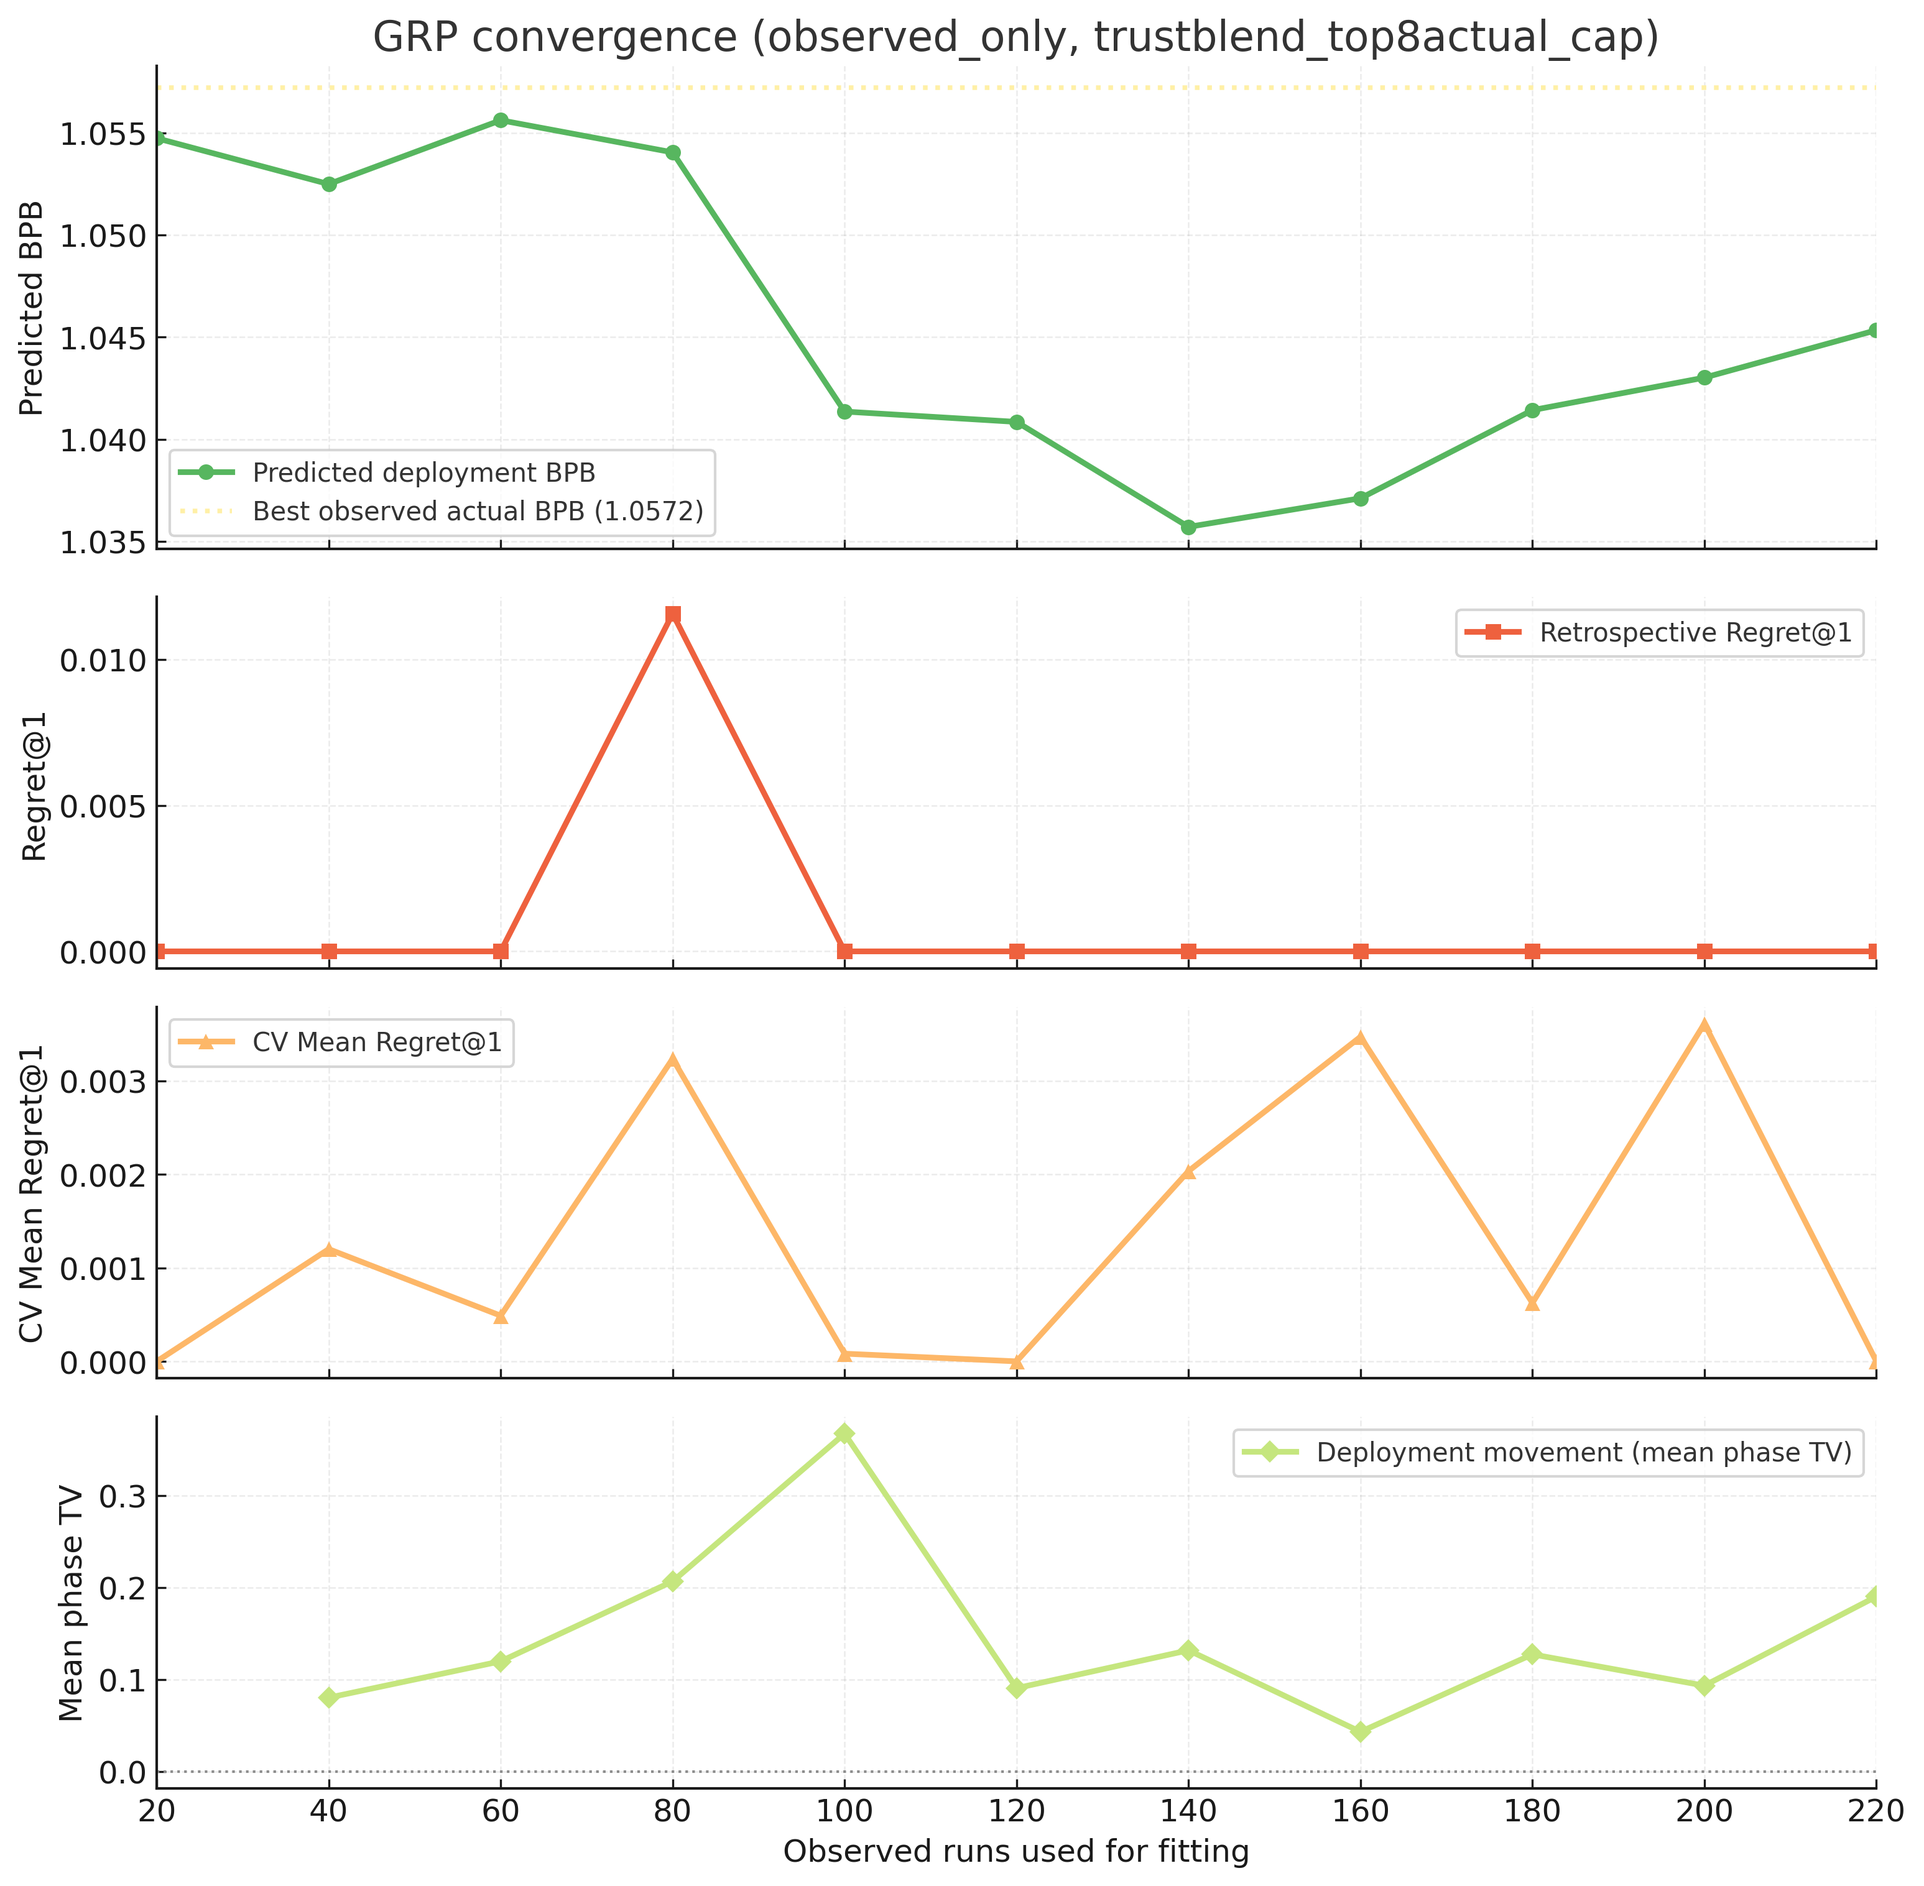
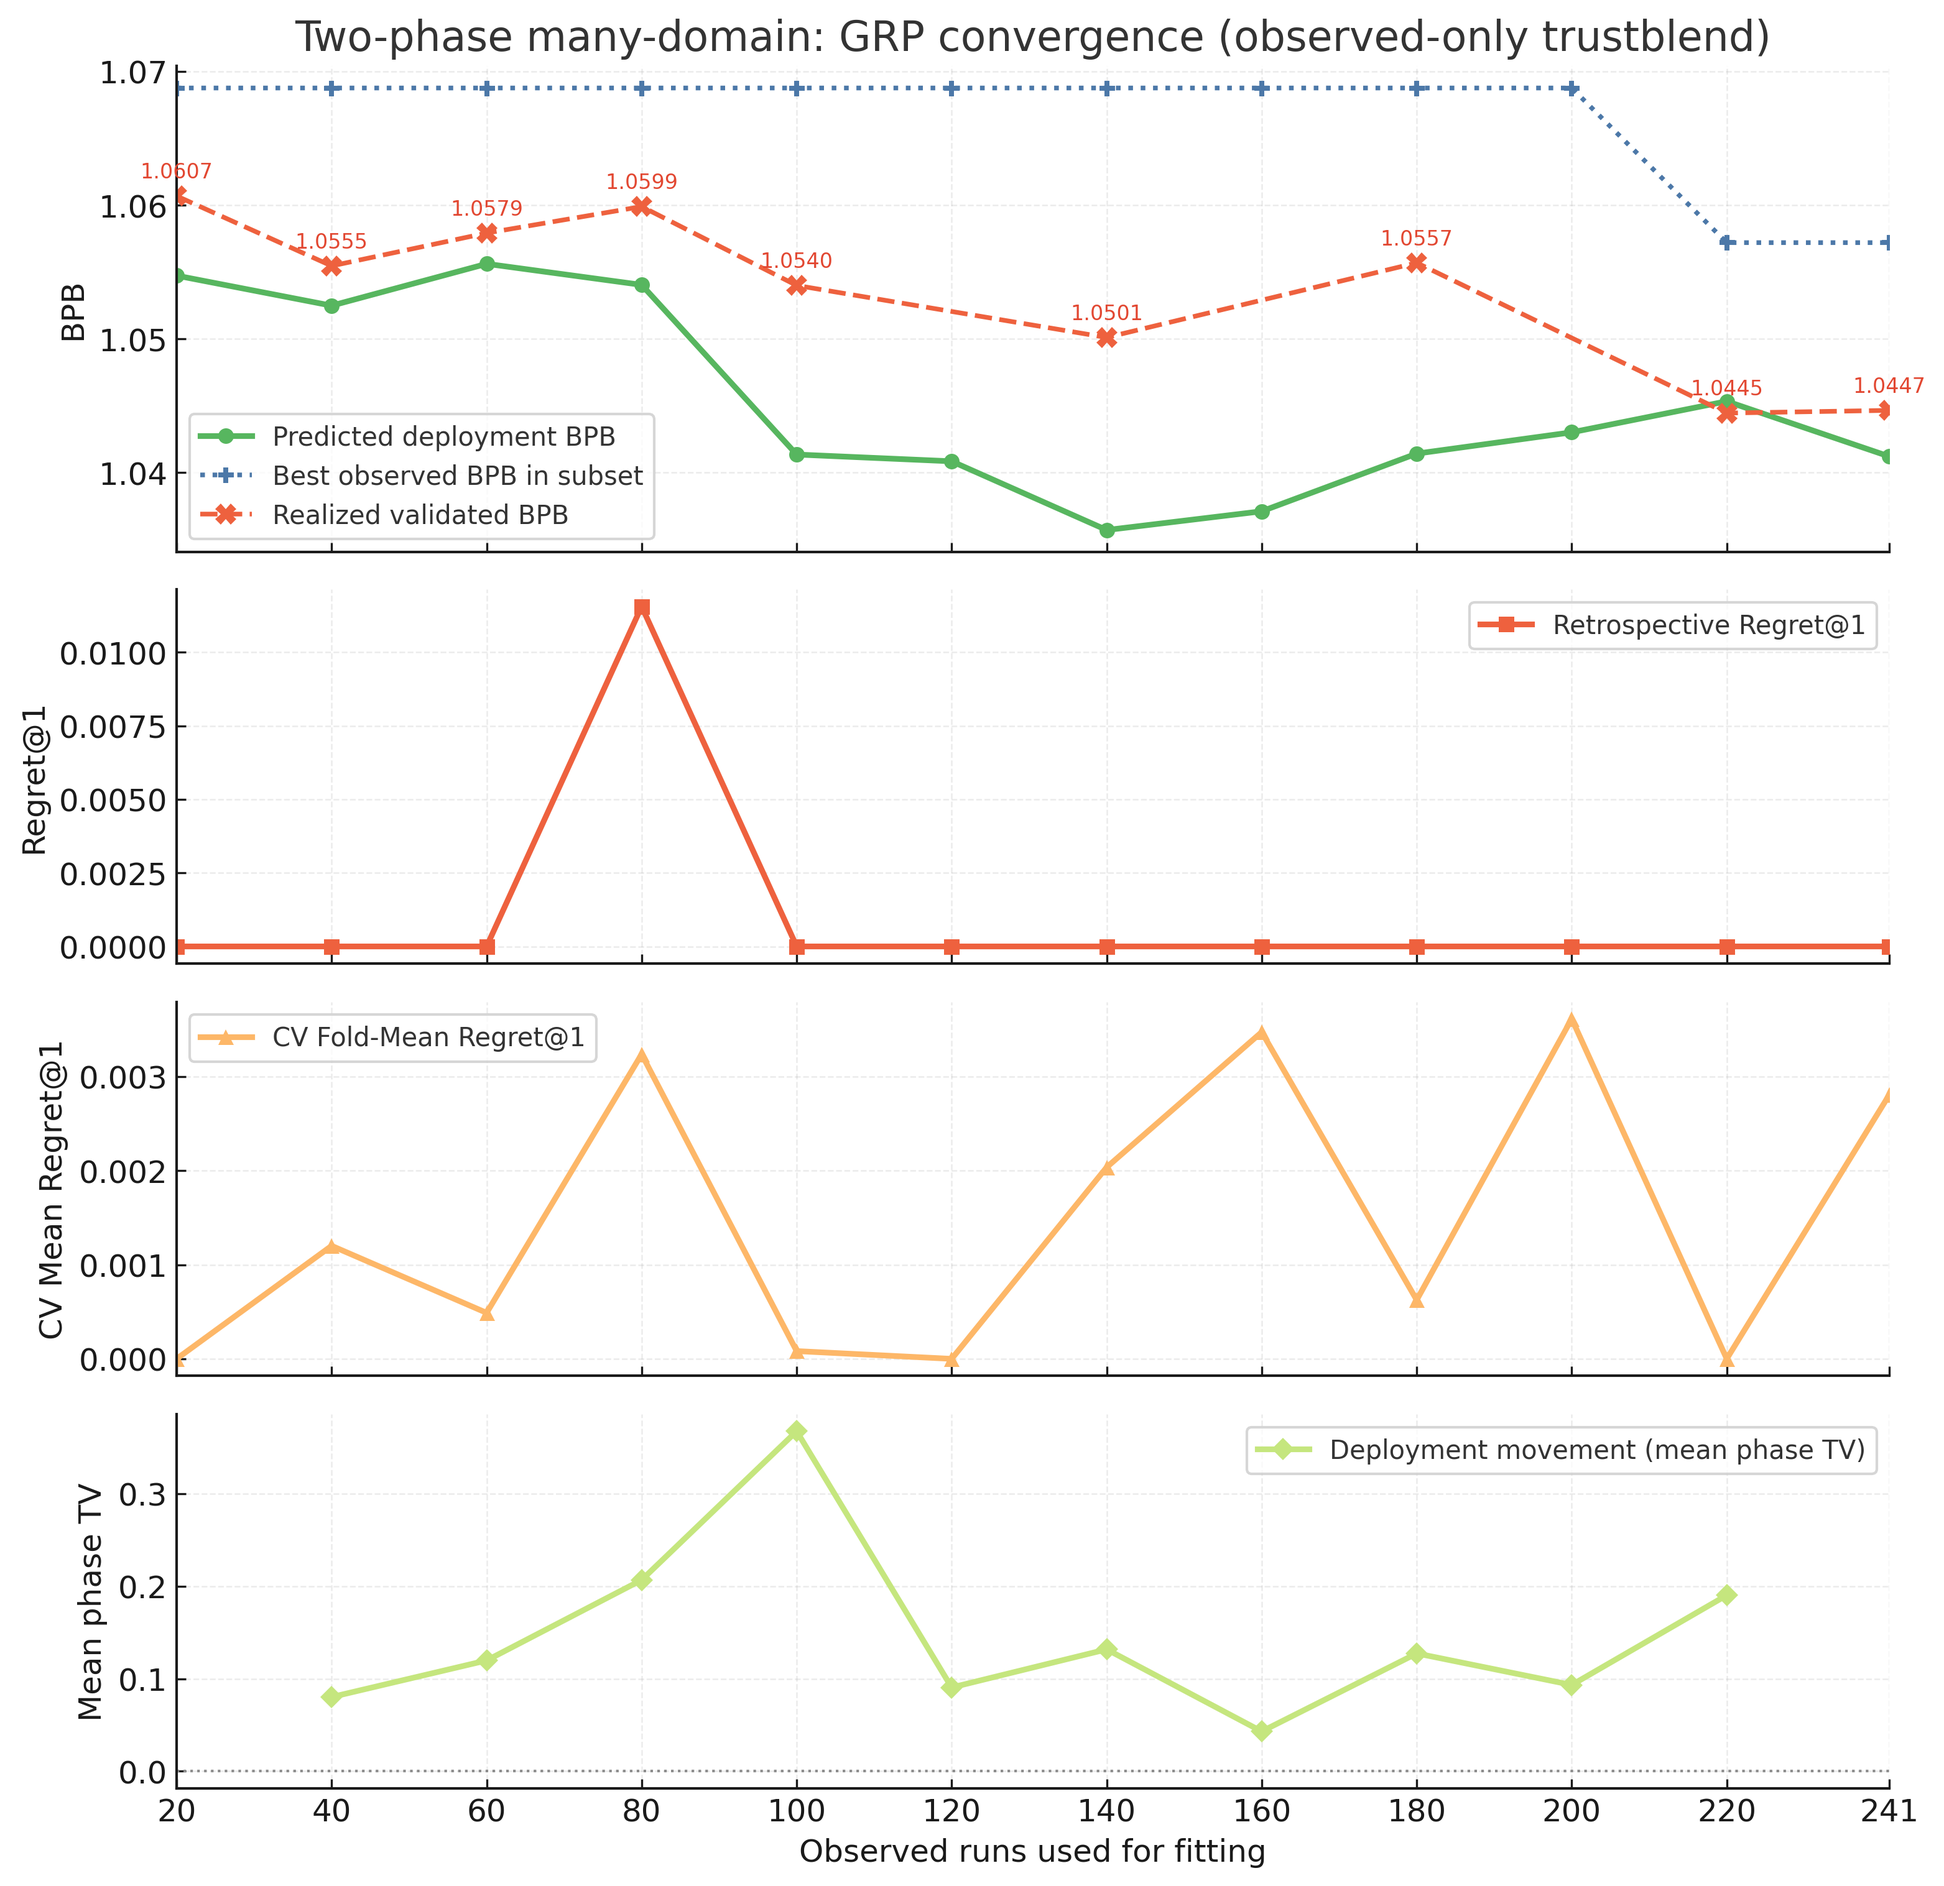
[domain_phase_mix] Refresh validated GRP artifacts
Record the finished power-law trustblend validation in the GRP table and update the trustblend convergence artifacts with the realized subset and full-data outcomes.

diff --git a/experiments/domain_phase_mix/exploratory/two_phase_many/surrogate_search/grp_evaluation_table_rows.tex b/experiments/domain_phase_mix/exploratory/two_phase_many/surrogate_search/grp_evaluation_table_rows.tex
@@ -1,5 +1,5 @@
 GRP & 37 & 0.752 & 0.688 & 0.0107 & 0.824 & 0.0000 & 0.0140 & \href{https://wandb.ai/marin-community/marin/runs/baseline_genericfamily_retainedtotal_tuned_uncheatable_bpb-d97130}{1.0403} \\
-GRP w/ power-law satiety & 37 & 0.824 & 0.777 & 0.0091 & 0.878 & 0.0000 & 0.0028 & -- \\
+GRP w/ power-law satiety & 37 & 0.824 & 0.777 & 0.0091 & 0.878 & 0.0000 & 0.0028 & \href{https://wandb.ai/marin-community/marin/runs/baseline_genericfamily_power_observed_only_trustblend_top8actual_cap-3fe2f4}{1.0472} \\
 GRP w/o family signals & 34 & 0.726 & 0.659 & 0.0112 & 0.806 & 0.0000 & 0.0157 & \href{https://wandb.ai/marin-community/marin/runs/baseline_genericfamily_no_groups_uncheatable_bpb-573c71}{1.0926} \\
 GRP w/o retention & 36 & 0.755 & 0.692 & 0.0106 & 0.826 & 0.0000 & 0.0113 & \href{https://wandb.ai/marin-community/marin/runs/baseline_genericfamily_no_retention_uncheatable_bpb-8c60eb}{1.1007} \\
 GRP w/o overexposure penalty & 35 & 0.689 & 0.606 & 0.0120 & 0.773 & 0.0303 & 0.0145 & -- \\

diff --git a/experiments/domain_phase_mix/exploratory/two_phase_many/surrogate_search/build_grp_evaluation_table.py b/experiments/domain_phase_mix/exploratory/two_phase_many/surrogate_search/build_grp_evaluation_table.py
@@ -104,6 +104,10 @@ VALIDATED_RUN_SPECS: tuple[ValidatedRunSpec, ...] = (
         wandb_run_id="baseline_genericfamily_retainedtotal_tuned_uncheatable_bpb-d97130",
     ),
     ValidatedRunSpec(
+        model_name="GRP w/ power-law satiety",
+        wandb_run_id="baseline_genericfamily_power_observed_only_trustblend_top8actual_cap-3fe2f4",
+    ),
+    ValidatedRunSpec(
         model_name="GRP w/o family signals",
         wandb_run_id="baseline_genericfamily_no_groups_uncheatable_bpb-573c71",
     ),
